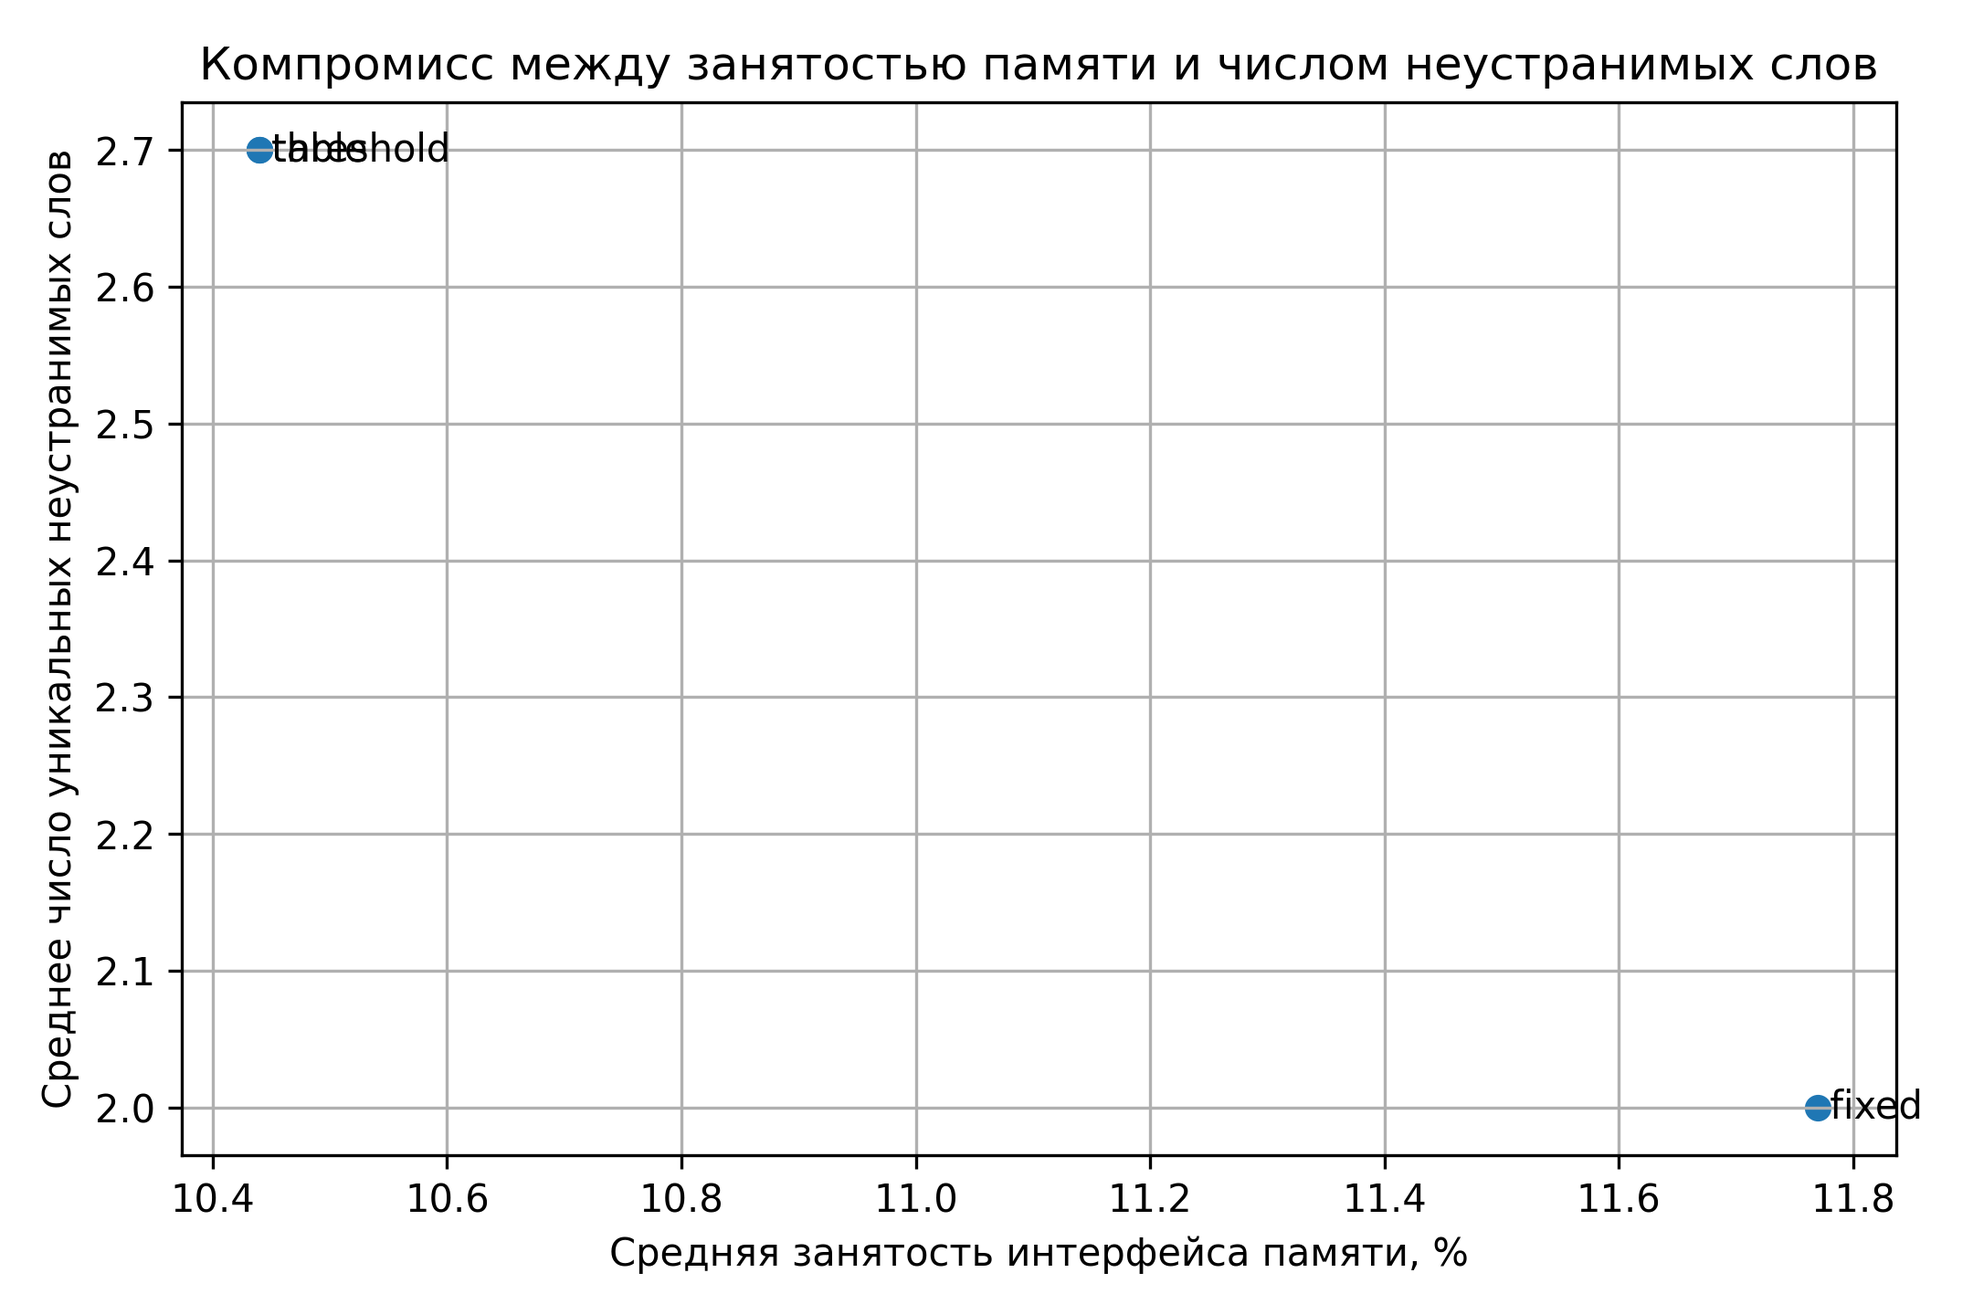
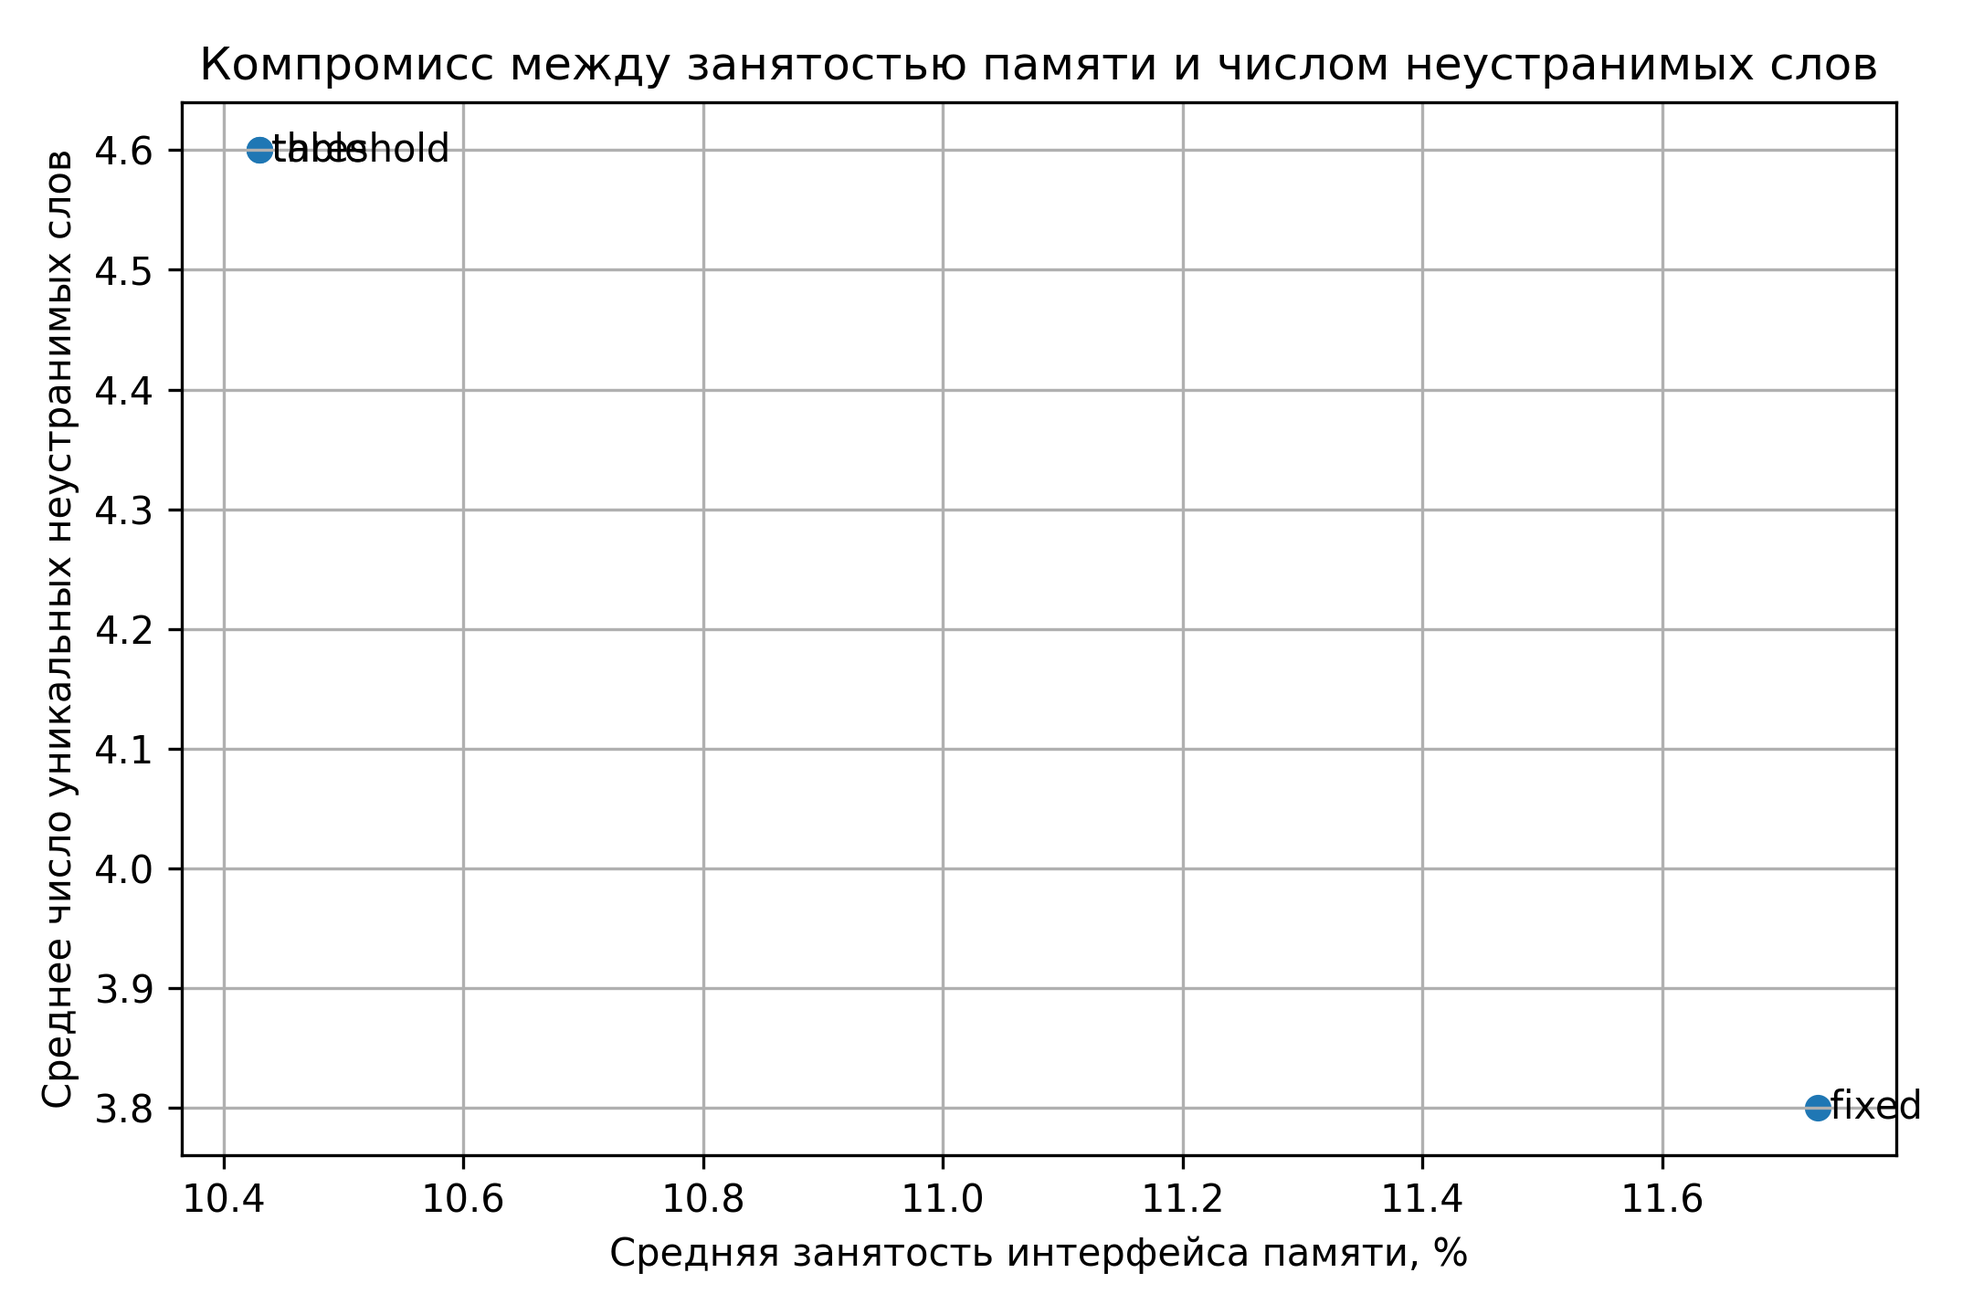
Add instantaneous cluster fault generation

diff --git a/model/generate_fault_events.py b/model/generate_fault_events.py
@@ -27,6 +27,32 @@ def bit_to_mask(bit_index: int) -> int:
 
     return 1 << bit_index
 
+def random_distinct_bit_mask(
+    rng: random.Random,
+    bit_count: int,
+) -> int:
+    """
+    Формирует маску из bit_count различных битов кодового слова.
+
+    bit_count = 1 соответствует одиночной ошибке.
+    bit_count = 2 соответствует мгновенному двухбитовому кластеру.
+    """
+    if bit_count <= 0:
+        raise ValueError("bit_count must be positive")
+
+    if bit_count > CODEWORD_WIDTH:
+        raise ValueError(
+            f"bit_count={bit_count} exceeds codeword width {CODEWORD_WIDTH}"
+        )
+
+    selected_bits = rng.sample(range(CODEWORD_WIDTH), bit_count)
+
+    mask = 0
+    for bit_index in selected_bits:
+        mask |= bit_to_mask(bit_index)
+
+    return mask
+
 ControlLevelEvent = tuple[int, int]
 
 def baseline_events() -> list[FaultEvent]:
@@ -379,6 +405,47 @@ def add_paired_events(
             )
 
 
+def add_instant_cluster_events(
+    events: list[FaultEvent],
+    used_cycles: set[int],
+    rng: random.Random,
+    weights: list[float],
+    total_cycles: int,
+    cluster_event_count: int,
+    cluster_bit_count: int,
+) -> None:
+    """
+    Добавляет мгновенные кластерные события.
+
+    Каждое событие имеет вид:
+        t, address A, mask
+
+    В отличие от накопительной пары, здесь несколько битов
+    одного кодового слова повреждаются в один и тот же модельный такт.
+    """
+    if cluster_event_count < 0:
+        raise ValueError("cluster_event_count must be non-negative")
+
+    if cluster_bit_count <= 1:
+        raise ValueError("cluster_bit_count must be greater than 1")
+
+    if cluster_bit_count > CODEWORD_WIDTH:
+        raise ValueError(
+            f"cluster_bit_count={cluster_bit_count} exceeds "
+            f"codeword width {CODEWORD_WIDTH}"
+        )
+
+    for _ in range(cluster_event_count):
+        preferred_cycle = weighted_cycle_from_series(rng, weights, total_cycles)
+        cycle = find_free_cycle_near(preferred_cycle, used_cycles, total_cycles)
+
+        used_cycles.add(cycle)
+
+        address = rng.randrange(DEPTH)
+        fault_mask = random_distinct_bit_mask(rng, cluster_bit_count)
+
+        events.append((cycle, address, fault_mask))
+
 def upsets_weighted_events(
     input_path: Path,
     start_index: int,
@@ -388,6 +455,8 @@ def upsets_weighted_events(
     paired_event_count: int,
     pair_gap_min: int,
     pair_gap_max: int,
+    cluster_event_count: int,
+    cluster_bit_count: int,
     seed: int,
 ) -> list[FaultEvent]:
     """
@@ -395,11 +464,14 @@ def upsets_weighted_events(
 
     Модель:
         - event_count одиночных событий;
-        - paired_event_count парных событий;
+        - paired_event_count накопительных пар;
+        - cluster_event_count мгновенных кластерных событий;
         - моменты событий выбираются с вероятностью,
           пропорциональной upsets(t);
-        - адреса и биты выбираются равномерно;
-        - в одной паре оба события относятся к одному адресу.
+        - адреса выбираются равномерно;
+        - в накопительной паре оба события относятся к одному адресу;
+        - в мгновенном кластере несколько битов одного слова
+          повреждаются в один модельный такт.
     """
     if total_cycles <= 0:
         raise ValueError("total_cycles must be positive")
@@ -407,7 +479,7 @@ def upsets_weighted_events(
     if event_count < 0:
         raise ValueError("event_count must be non-negative")
 
-    total_injections = event_count + 2 * paired_event_count
+    total_injections = event_count + 2 * paired_event_count + cluster_event_count
 
     if total_injections > total_cycles:
         raise ValueError(
@@ -441,6 +513,16 @@ def upsets_weighted_events(
         paired_event_count=paired_event_count,
         pair_gap_min=pair_gap_min,
         pair_gap_max=pair_gap_max,
+    )
+
+    add_instant_cluster_events(
+        events=events,
+        used_cycles=used_cycles,
+        rng=rng,
+        weights=window,
+        total_cycles=total_cycles,
+        cluster_event_count=cluster_event_count,
+        cluster_bit_count=cluster_bit_count,
     )
 
     events.sort(key=lambda item: item[0])
@@ -629,6 +711,23 @@ def main() -> None:
     )
 
     parser.add_argument(
+        "--cluster-event-count",
+        type=int,
+        default=0,
+        help=(
+            "Number of instantaneous cluster events for --scenario upsets. "
+            "Each cluster creates one mask-based injection."
+        ),
+    )
+
+    parser.add_argument(
+        "--cluster-bit-count",
+        type=int,
+        default=2,
+        help="Number of flipped bits in each instantaneous cluster.",
+    )
+
+    parser.add_argument(
         "--pair-gap-min",
         type=int,
         default=10,
@@ -668,6 +767,8 @@ def main() -> None:
             paired_event_count=args.paired_event_count,
             pair_gap_min=args.pair_gap_min,
             pair_gap_max=args.pair_gap_max,
+            cluster_event_count=args.cluster_event_count,
+            cluster_bit_count=args.cluster_bit_count,
             seed=args.seed,
         )
 
@@ -701,6 +802,10 @@ def main() -> None:
         print(f"Start index: {args.start_index}")
         print(f"Window size: {args.window_size}")
         print(f"Total cycles: {args.total_cycles}")
+        print(f"Single events: {args.event_count}")
+        print(f"Paired events: {args.paired_event_count}")
+        print(f"Cluster events: {args.cluster_event_count}")
+        print(f"Cluster bit count: {args.cluster_bit_count}")
         print(f"Seed: {args.seed}")
 
 

diff --git a/model/run_strategy_series.py b/model/run_strategy_series.py
@@ -37,6 +37,8 @@ SERIES_COLUMNS = [
     "paired_event_count",
     "pair_gap_min",
     "pair_gap_max",
+    "cluster_event_count",
+    "cluster_bit_count",
     *BASE_COLUMNS,
 ]
 
@@ -71,6 +73,8 @@ def append_series_rows(
     paired_event_count: int,
     pair_gap_min: int,
     pair_gap_max: int,
+    cluster_event_count: int,
+    cluster_bit_count: int,
 ) -> None:
     output_path.parent.mkdir(parents=True, exist_ok=True)
 
@@ -92,6 +96,8 @@ def append_series_rows(
                 "paired_event_count": paired_event_count,
                 "pair_gap_min": pair_gap_min,
                 "pair_gap_max": pair_gap_max,
+                "cluster_event_count": cluster_event_count,
+                "cluster_bit_count": cluster_bit_count,
             }
 
             for column in BASE_COLUMNS:
@@ -109,6 +115,8 @@ def run_one_seed(
     paired_event_count: int,
     pair_gap_min: int,
     pair_gap_max: int,
+    cluster_event_count: int,
+    cluster_bit_count: int,
     make_command: str,
 ) -> None:
     command = [
@@ -121,6 +129,8 @@ def run_one_seed(
         f"FAULT_PAIRED_EVENT_COUNT={paired_event_count}",
         f"FAULT_PAIR_GAP_MIN={pair_gap_min}",
         f"FAULT_PAIR_GAP_MAX={pair_gap_max}",
+        f"FAULT_CLUSTER_EVENT_COUNT={cluster_event_count}",
+        f"FAULT_CLUSTER_BIT_COUNT={cluster_bit_count}",
         f"FAULT_SEED={seed}",
     ]
 
@@ -202,6 +212,20 @@ def main() -> None:
     )
 
     parser.add_argument(
+        "--cluster-event-count",
+        type=int,
+        default=10,
+        help="Number of instantaneous cluster events.",
+    )
+
+    parser.add_argument(
+        "--cluster-bit-count",
+        type=int,
+        default=2,
+        help="Number of flipped bits in each instantaneous cluster.",
+    )
+
+    parser.add_argument(
         "--single-run-input",
         type=Path,
         default=Path("results/tables/strategy_comparison.csv"),
@@ -247,6 +271,8 @@ def main() -> None:
             paired_event_count=args.paired_event_count,
             pair_gap_min=args.pair_gap_min,
             pair_gap_max=args.pair_gap_max,
+            cluster_event_count=args.cluster_event_count,
+            cluster_bit_count=args.cluster_bit_count,
             make_command=args.make_command,
         )
 
@@ -263,6 +289,8 @@ def main() -> None:
             paired_event_count=args.paired_event_count,
             pair_gap_min=args.pair_gap_min,
             pair_gap_max=args.pair_gap_max,
+            cluster_event_count=args.cluster_event_count,
+            cluster_bit_count=args.cluster_bit_count,
         )
 
     print("")

diff --git a/results/tables/strategy_summary.md b/results/tables/strategy_summary.md
@@ -4,26 +4,26 @@
 
 | Стратегия | Циклы скраббинга | Чтения | Записи | Исправлено | Обнаружения неустранимых | Уникальные неустранимые слова | Переключения интервала | Занятость памяти | Изменение занятости к fixed | Изменение уникальных неустранимых | Изменение исправленных |
 |---|---:|---:|---:|---:|---:|---:|---:|---:|---:|---:|---:|
-| fixed | 68 | 1101 | 8 | 8 | 30 | 2 | 0 | 11.0 % | 0.0 % | 0 | 0 |
-| table | 60 | 960 | 8 | 8 | 25 | 2 | 13 | 9.6 % | -12.7 % | 0 | 0 |
-| threshold | 60 | 960 | 8 | 8 | 25 | 2 | 4 | 9.6 % | -12.7 % | 0 | 0 |
+| fixed | 8 | 142 | 6 | 6 | 7 | 4 | 0 | 11.3 % | 0.0 % | 0 | 0 |
+| table | 13 | 208 | 11 | 11 | 7 | 2 | 353 | 16.8 % | +48.7 % | -2 | +5 |
+| threshold | 14 | 230 | 12 | 12 | 8 | 2 | 45 | 18.6 % | +64.6 % | -2 | +6 |
 
-Базовая стратегия `fixed` принята за точку сравнения: занятость памяти 11.0 %, число чтений 1101, число исправленных ошибок 8, число уникальных неустранимых слов 2.
+Базовая стратегия `fixed` принята за точку сравнения: занятость памяти 11.3 %, число чтений 142, число исправленных ошибок 6, число уникальных неустранимых слов 4.
 
 ## Автоматически сформированный вывод
 
 ### Стратегия `table`
 
-- Число уникальных неустранимых слов не изменилось и равно 2.
-- Число исправленных ошибок не изменилось и равно 8.
-- Занятость памяти уменьшилась с 11.0 % до 9.6 %.
+- Число уникальных неустранимых слов уменьшилось с 4 до 2.
+- Число исправленных ошибок увеличилось с 6 до 11.
+- Занятость памяти выросла с 11.3 % до 16.8 %, то есть на 5.5 процентного пункта.
 
 ### Стратегия `threshold`
 
-- Число уникальных неустранимых слов не изменилось и равно 2.
-- Число исправленных ошибок не изменилось и равно 8.
-- Занятость памяти уменьшилась с 11.0 % до 9.6 %.
+- Число уникальных неустранимых слов уменьшилось с 4 до 2.
+- Число исправленных ошибок увеличилось с 6 до 12.
+- Занятость памяти выросла с 11.3 % до 18.6 %, то есть на 7.3 процентного пункта.
 
 ## Предварительная интерпретация
 
-Минимальное число уникальных неустранимых слов равно 2. Среди стратегий с этим значением наименьшую занятость памяти имеет `table` (9.6 %).
+Минимальное число уникальных неустранимых слов равно 2. Среди стратегий с этим значением наименьшую занятость памяти имеет `table` (16.8 %).

diff --git a/results/tables/strategy_series_summary.md b/results/tables/strategy_series_summary.md
@@ -17,19 +17,19 @@
 
 | Стратегия | Прогонов | Исправлено, среднее ± σ | Уникальные неустранимые слова, среднее ± σ | Обнаружения неустранимых, среднее ± σ | Занятость памяти, среднее ± σ, % | Чтения, среднее | Записи, среднее | Переключения интервала, среднее |
 |---|---:|---:|---:|---:|---:|---:|---:|---:|
-| `fixed` | 10 | 93.600 ± 8.435 | 2.000 ± 1.563 | 109.800 ± 49.562 | 11.770 ± 0.082 | 1088.000 | 93.600 | 0.000 |
-| `table` | 10 | 89.800 ± 5.996 | 2.700 ± 1.160 | 117.000 ± 32.007 | 10.440 ± 0.070 | 960.000 | 89.800 | 13.000 |
-| `threshold` | 10 | 89.800 ± 5.996 | 2.700 ± 1.160 | 117.000 ± 32.007 | 10.440 ± 0.070 | 960.000 | 89.800 | 4.000 |
+| `fixed` | 10 | 90.200 ± 8.917 | 3.800 ± 1.229 | 208.000 ± 61.718 | 11.730 ± 0.095 | 1088.000 | 90.200 | 0.000 |
+| `table` | 10 | 87.000 ± 6.782 | 4.600 ± 0.966 | 197.400 ± 39.345 | 10.430 ± 0.067 | 960.000 | 87.000 | 13.000 |
+| `threshold` | 10 | 87.000 ± 6.782 | 4.600 ± 0.966 | 197.400 ± 39.345 | 10.430 ± 0.067 | 960.000 | 87.000 | 4.000 |
 
 ## Сравнение с постоянным интервалом
 
 | Стратегия | Изменение исправленных ошибок | Изменение уникальных неустранимых слов | Изменение занятости памяти |
 |---|---:|---:|---:|
-| `table` | -3.800 | +0.700 | -1.330 п.п. (-11.30 %) |
-| `threshold` | -3.800 | +0.700 | -1.330 п.п. (-11.30 %) |
+| `table` | -3.200 | +0.800 | -1.300 п.п. (-11.08 %) |
+| `threshold` | -3.200 | +0.800 | -1.300 п.п. (-11.08 %) |
 
 ## Предварительная интерпретация
 
-Минимальное среднее число уникальных неустранимых слов равно 2.000. Среди стратегий с этим значением наименьшую среднюю занятость памяти имеет `fixed` (11.770 %).
+Минимальное среднее число уникальных неустранимых слов равно 3.800. Среди стратегий с этим значением наименьшую среднюю занятость памяти имеет `fixed` (11.730 %).
 
 Эта сводка является статистическим обобщением серии прогонов по нескольким зёрнам генератора. Поэтому она существенно надёжнее одиночного демонстрационного запуска.
